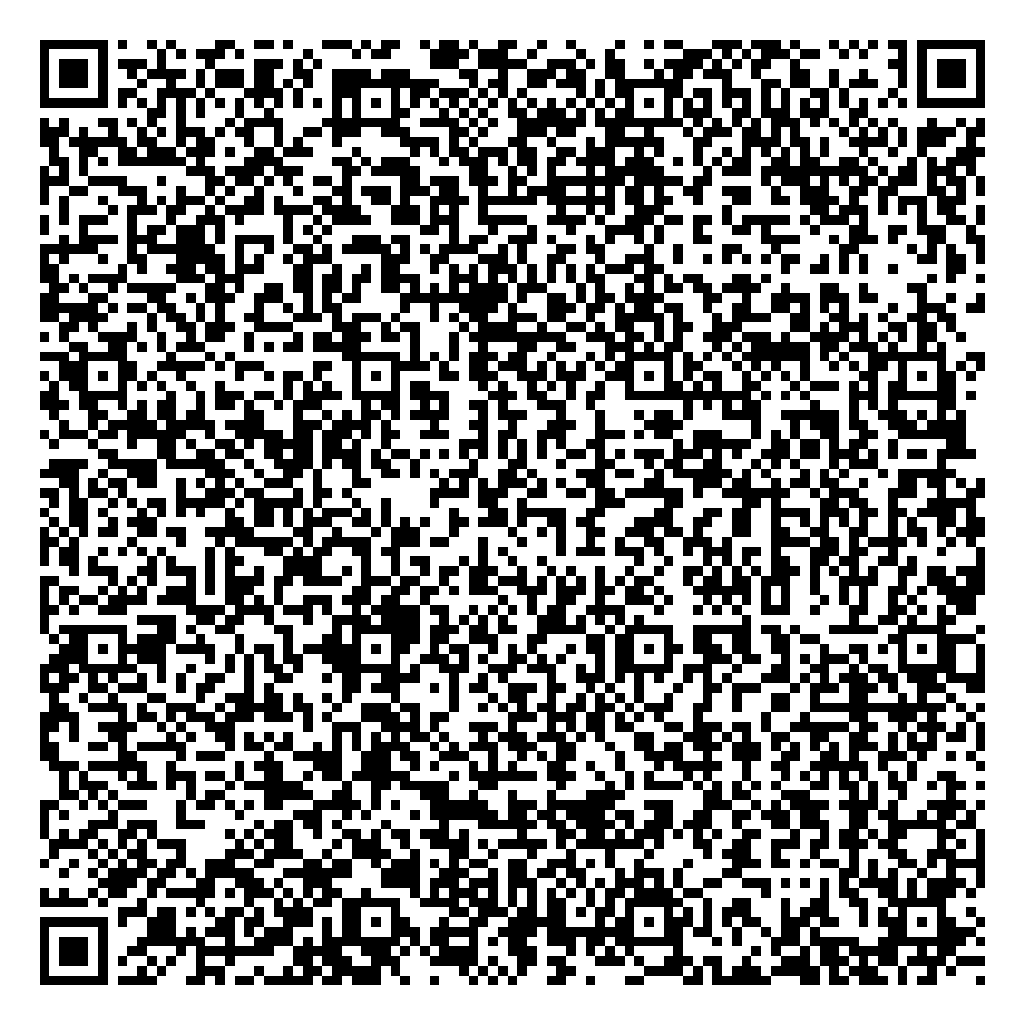
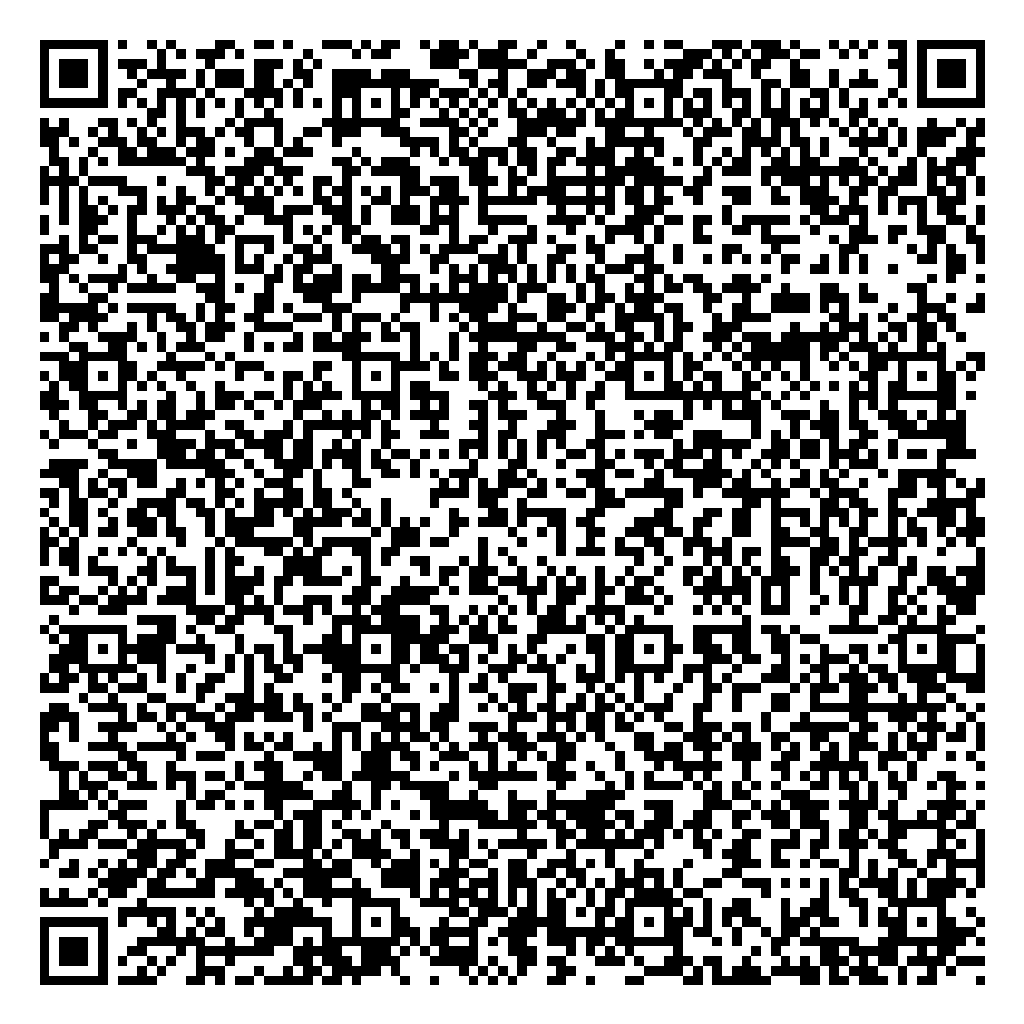
changes

diff --git a/generate_provisioning_qr.js b/generate_provisioning_qr.js
@@ -14,10 +14,10 @@ const provisioningData = {
     EXPECTED_CHECKSUM,
 
   "android.app.extra.PROVISIONING_WIFI_SSID":
-    "Airtel-MyWiFi-PQR-C100-C38E",
+    "Airtel-MyWiFi-PQR-C100-C352",
 
   "android.app.extra.PROVISIONING_WIFI_PASSWORD":
-    "25250912",
+    "87966629",
 
   "android.app.extra.PROVISIONING_WIFI_SECURITY_TYPE":
     "WPA",
@@ -34,7 +34,7 @@ async function main() {
   console.log('Local IP  :', LOCAL_IP);
   console.log('APK URL   :', APK_URL);
   console.log('Checksum  :', EXPECTED_CHECKSUM);
-  console.log('WiFi      : Airtel-MyWiFi-PQR-C100-C38E');
+  console.log('WiFi      : Airtel-MyWiFi-PQR-C100-C352 / WPA / 87966629');
   console.log('Component : gov.uidai.securemdmpoc/.receivers.MyDeviceAdminReceiver');
 
   await QRCode.toFile('./provisioning_qr.png', qrData, {

diff --git a/scripts/serve_apk.js b/scripts/serve_apk.js
@@ -4,7 +4,7 @@ const path = require('path');
 const { LOCAL_IP } = require('../config/constants');
 
 const PORT = 8080;
-const APK_PATH = '/Users/macuser/Desktop/SecureMdmPocApk/app-release.apk';
+const APK_PATH = '/Users/macuser/Desktop/PocAppHost/app-release.apk';
 
 const server = http.createServer((req, res) => {
   console.log(`${req.method} ${req.url} from ${req.socket.remoteAddress}`);
